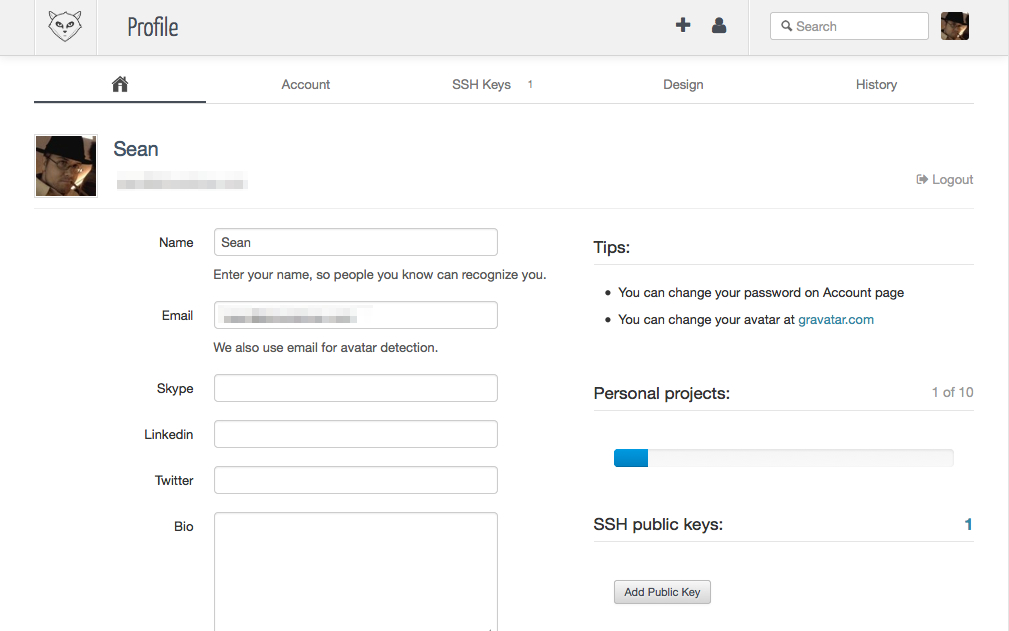
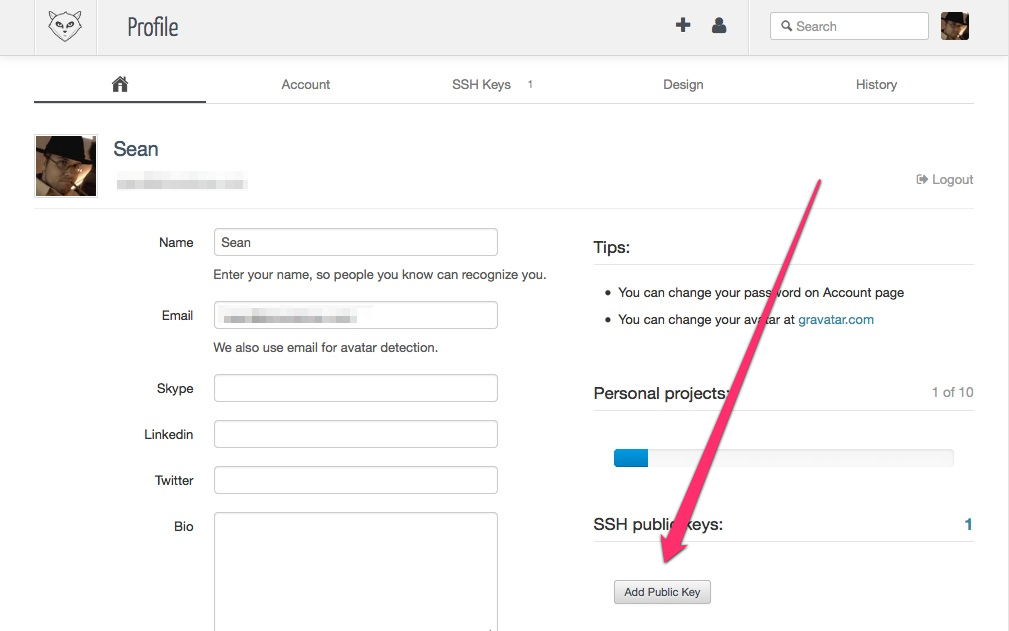
simplify gitlab docs

diff --git a/docs/en/gitlab/setting-up-your-project.md b/docs/en/gitlab/setting-up-your-project.md
@@ -2,19 +2,18 @@
 
 [Gitlab Setup](../gitlab/gitlab-setup) described setting up your development environment to work with Gitlab.
 
+Now we'll describe how to setup your project code in that repository.
+
 We use [Composer](http://getcomposer.org) as the package manager for SilverStripe CMS/framework and modules.
+[Installing and Upgrading with Composer](http://doc.silverstripe.org/framework/en/installation/composer) describes
+how to install Composer in your development environment.
 
-[Installing and Upgrading with Composer](http://doc.silverstripe.org/framework/en/installation/composer) in the
-SilverStripe documentation describes how to install Composer in your development environment. You'll need Composer
-to setup your project code.
+## Starting with some useful project code
 
-## Getting basic code into your project
+Gitlab contains some public repositories with code to help you get started. Rather than start from scratch, you can have
+a basic website up and running in little time.
 
-In CWP we have a concept of a project recipe. It's much like how you'd think a recipe is, where you have ingredients
-that are combined to form a complete project. In this case, the ingredients are packages defined in `composer.json`
-that Composer uses when you run `composer update`. This will be explained in more detail as we walk through the process.
-
-This assumes you've been given a project that has no code. Except for maybe a README file.
+This assumes you've been given a project that has no code in it. Except for maybe a README file.
 
 First of all, let's change directory into the project repository we setup in [Gitlab Setup](../gitlab/gitlab-setup)
 
@@ -67,9 +66,12 @@ run `composer install`. This gives them the complete project code.
 
 ## Structure of the project
 
-Custom code should be added and committed to the `mysite` directory, such as page types, PHP files etc.
+`mysite` should contain your custom project code, such as page types, PHP files etc.
 
 `themes/default` is the theme folder you'll be doing your template work, adding templates, adjusting CSS, etc.
+
+The rest of the folders in a project are Composer managed. See [Working with modules](../gitlab/working-with-modules) for more
+information.
 
 ## Including or creating a module in your project
 

diff --git a/docs/en/gitlab/gitlab-setup.md b/docs/en/gitlab/gitlab-setup.md
@@ -40,18 +40,14 @@ Once that's done, you'll have a new file at `~/your_username/.ssh/id_rsa.pub`, t
 
 Upon accessing Gitlab, you'll find a **Dashboard** page containing a summary of activity.
 
+Open up **Profile** by hoving over your avatar and accessing **My profile**
+
 Your SSH key needs to be entered into Gitlab so you have authorisation to checkout and commit code to your
-repositories. Let's do that now.
+repositories. Click the **Add Public Key** button.
 
 ![Enter SSH key](_images/gitlab-ssh-key.jpg)
 
-Hover over your avatar icon in the top right of Gitlab and click **My profile** that pops up.
-
-You'll find yourself in the **Profile** page where you can edit your Gitlab profile details.
-
-Hit **Add Public Key**.
-
-Enter the contents of the `~/your_username/.ssh/id_rsa.pub` file into the **Key** field
+Enter the contents of `~/your_username/.ssh/id_rsa.pub` into the **Key** field
 
 Hit **Save**.
 
